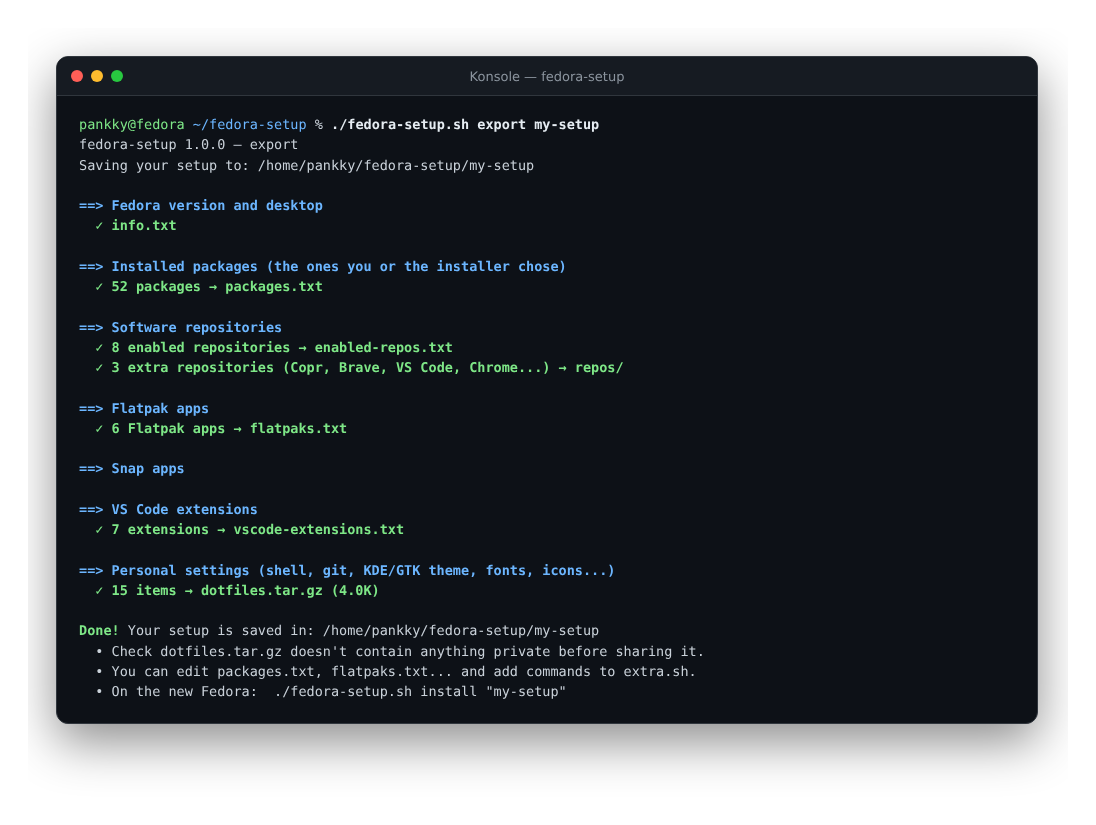
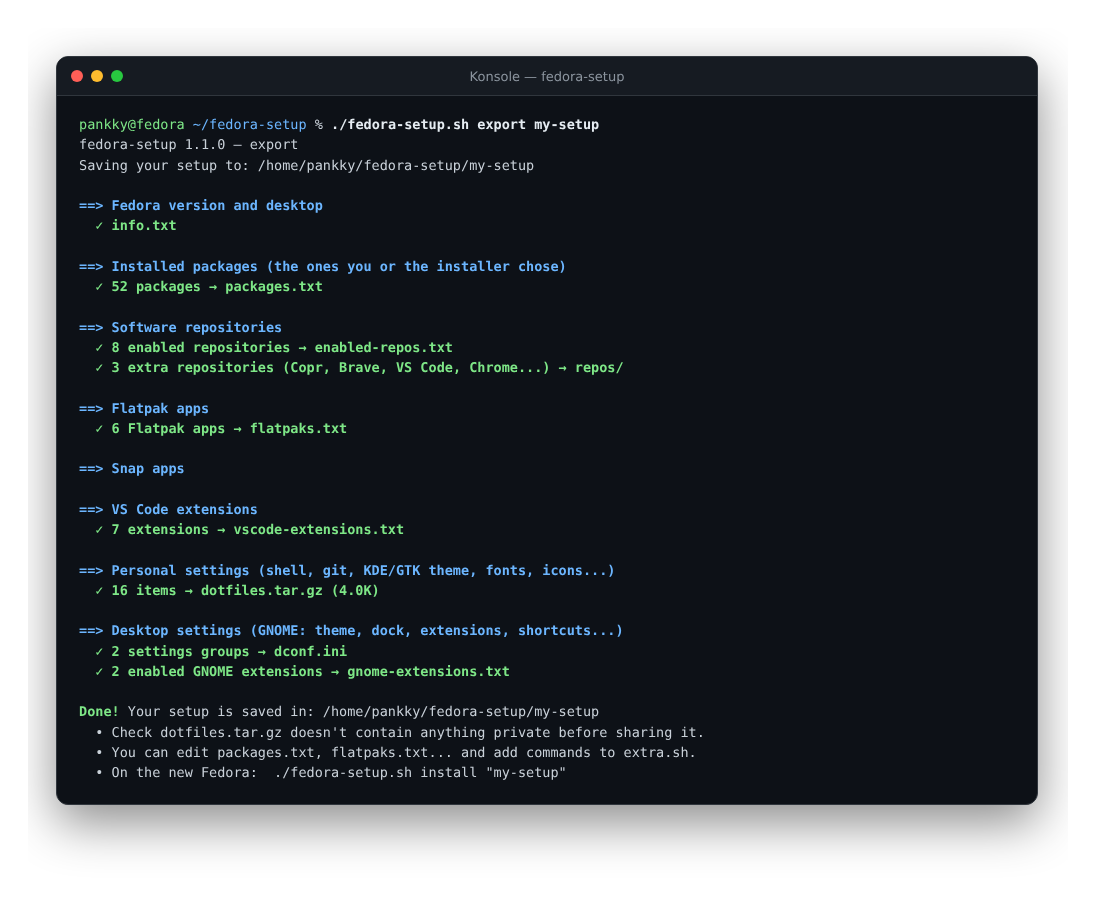
Add GNOME support and desktop screenshot

Changed region(s): [[0.062, 0.0606, 0.9617, 0.9091], [0.5274, 0.3939, 0.5584, 0.4545]]

diff --git a/README.md b/README.md
@@ -1,12 +1,17 @@
 # Fedora Setup in One Command ⚡
 
 Save how your Fedora is set up, and get it back on a fresh install with **one command**:
-your apps, repositories, Flatpaks, Snaps, VS Code extensions, shell, KDE/GTK theme, fonts and icons.
+your apps, repositories, Flatpaks, Snaps, VS Code extensions, shell, GNOME or KDE theme, extensions, fonts and icons.
 
 It also installs what every fresh Fedora needs: RPM Fusion, multimedia codecs, Flathub, and
 NVIDIA / ASUS tools when it detects that hardware.
 
 Made by **PANKKY**.
+
+<p align="center">
+  <img src="screenshots/desktop.png" alt="My Fedora: GNOME with a macOS-style dock and Blur my Shell (Liquid Glass)" width="900">
+  <br><sub>My Fedora (GNOME, macOS-style dock, Blur my Shell). This is what <code>install</code> brings back.</sub>
+</p>
 
 <p align="center">
   <img src="screenshots/export.png" alt="Saving your setup with fedora-setup.sh export" width="800">
@@ -63,7 +68,8 @@ Reboot when it finishes. That's it.
 | Your Flatpak and Snap apps | | ✅ |
 | Your VS Code extensions | | ✅ |
 | Your shell (zsh + Oh My Zsh) | | ✅ |
-| Your settings: KDE/GTK theme, icons, fonts, Konsole, git… | | ✅ |
+| Your settings: GTK/KDE theme, icons, fonts, terminal, git… | | ✅ |
+| Your GNOME desktop: dock, extensions, shortcuts, wallpaper (dconf) | | ✅ |
 | Your own commands from `extra.sh` | | ✅ |
 
 ## What's inside `my-setup/`
@@ -75,6 +81,7 @@ Reboot when it finishes. That's it.
 | `flatpaks.txt`, `snaps.txt` | Your apps |
 | `vscode-extensions.txt` | Your VS Code extensions |
 | `dotfiles.tar.gz` | Your settings (theme, fonts, icons, shell, git…) |
+| `dconf.ini`, `gnome-extensions.txt` | Your GNOME settings and enabled extensions |
 | `extra.sh` | Your own commands, run at the end |
 
 It **never** saves passwords or keys (`.ssh`, `.gnupg`, browser profiles…). Even so, check
